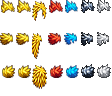
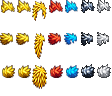
Fix clipped front of the SSJ3 side hair
The earlier 3px left nudge pushed the rebuilt side frame off the cell edge,
slicing the front of the mane (it spanned x0-9 with 19 opaque pixels jammed in
column 0, while columns 10-15 sat empty). The side frame is now centred, so it
spans x2-12 with clear margins and nothing is cut. Front and back are unchanged.

Added tools/build_ssj3_hair.py, which rebuilds the column from the hand-drawn
source, fits each piece inside a box so a tall piece cannot overflow, and reports
any opaque pixels touching a cell edge so this cannot regress silently.

Changed region(s): [[0.2679, 0.3438, 0.4018, 0.625]]

diff --git a/tools/build_ssj3_hair.py b/tools/build_ssj3_hair.py
@@ -1,0 +1,94 @@
+"""Rebuild the Super Saiyan 3 column of assets/saiyanhair.png from the hand-drawn source.
+
+The source sheet holds four pieces in a 2x2 grid: front, back, and two side profiles.
+Player hair cells are a fixed 16x32, three stacked rows (front / right / back); the game
+mirrors the right row for the left facing, so only one side piece is needed.
+
+Each piece is fitted inside a box rather than scaled to a fixed width, so a tall piece
+cannot overflow the cell, and each is centred so nothing is ever clipped at an edge.
+"""
+
+import numpy as np
+from PIL import Image, ImageFilter
+from scipy import ndimage
+
+SRC = r"C:/Users/khale/Downloads/stardew images/ssj3 hair.png"
+SHEET = r"C:/Users/khale/Documents/Claude projects/SaiyanTransformations/assets/saiyanhair.png"
+COL = 2                     # Super Saiyan 3 is the third hairstyle in the sheet
+CW, CH = 16, 32             # one hair cell
+
+# (max width, max height) each piece is fitted into, in cell pixels
+FIT_FRONT = (16, 20)
+FIT_SIDE = (16, 26)
+FIT_BACK = (16, 24)
+TOP = 1                     # top margin inside the cell
+
+
+def extract(path):
+    """Key the light background and return the four pieces: front, back, sideL, sideR."""
+    im = Image.open(path).convert("RGBA")
+    a = np.array(im)
+    r, g, b = a[:, :, 0].astype(int), a[:, :, 1].astype(int), a[:, :, 2].astype(int)
+    # background is near-white/grey; the hair is yellow, so its blue channel stays low
+    whiteish = np.minimum(np.minimum(r, g), b) > 205
+    lbl, _ = ndimage.label(whiteish)
+    border = set(lbl[0, :]) | set(lbl[-1, :]) | set(lbl[:, 0]) | set(lbl[:, -1])
+    border.discard(0)
+    a[np.isin(lbl, list(border)), 3] = 0          # only clear background joined to the edge
+    keyed = Image.fromarray(a, "RGBA")
+
+    lbl2, n = ndimage.label(a[:, :, 3] > 40)
+    boxes = []
+    for i in range(1, n + 1):
+        ys, xs = np.where(lbl2 == i)
+        if len(xs) < 800:
+            continue
+        boxes.append((xs.min(), ys.min(), xs.max(), ys.max()))
+    boxes.sort(key=lambda c: (round(c[1] / 200), c[0]))   # top row first, then left to right
+    return [keyed.crop((x0, y0, x1 + 1, y1 + 1)) for x0, y0, x1, y1 in boxes[:4]]
+
+
+def place(piece, fit, flip=False):
+    """Fit inside the box, sharpen back the detail the downscale costs, centre in the cell."""
+    max_w, max_h = fit
+    scale = min(max_w / piece.width, max_h / piece.height)
+    w = max(1, round(piece.width * scale))
+    h = max(1, round(piece.height * scale))
+    img = piece.resize((w, h), Image.LANCZOS)
+    img = img.filter(ImageFilter.UnsharpMask(radius=1.0, percent=70, threshold=2))
+    if flip:
+        img = img.transpose(Image.FLIP_LEFT_RIGHT)
+    cell = Image.new("RGBA", (CW, CH), (0, 0, 0, 0))
+    cell.alpha_composite(img, ((CW - w) // 2, TOP))     # centred: never clipped
+    return cell
+
+
+def clipped(cell):
+    """Opaque pixels sitting on a cell edge, which would read as a cut-off silhouette."""
+    left = sum(1 for y in range(CH) if cell.getpixel((0, y))[3] > 0)
+    right = sum(1 for y in range(CH) if cell.getpixel((CW - 1, y))[3] > 0)
+    return left, right
+
+
+def main():
+    front, back, _side_l, side_r = extract(SRC)
+
+    cells = {
+        0: place(front, FIT_FRONT),
+        1: place(side_r, FIT_SIDE, flip=True),   # flipped so the profile faces right
+        2: place(back, FIT_BACK),
+    }
+
+    sheet = Image.open(SHEET).convert("RGBA")
+    for row, cell in cells.items():
+        sheet.paste(cell, (COL * CW, row * CH))
+        l, r = clipped(cell)
+        name = {0: "front", 1: "side ", 2: "back "}[row]
+        flag = "  <-- TOUCHING EDGE" if (l or r) else ""
+        print(f"{name}: edge pixels left={l} right={r}{flag}")
+    sheet.save(SHEET)
+    print("wrote", SHEET)
+
+
+if __name__ == "__main__":
+    main()
